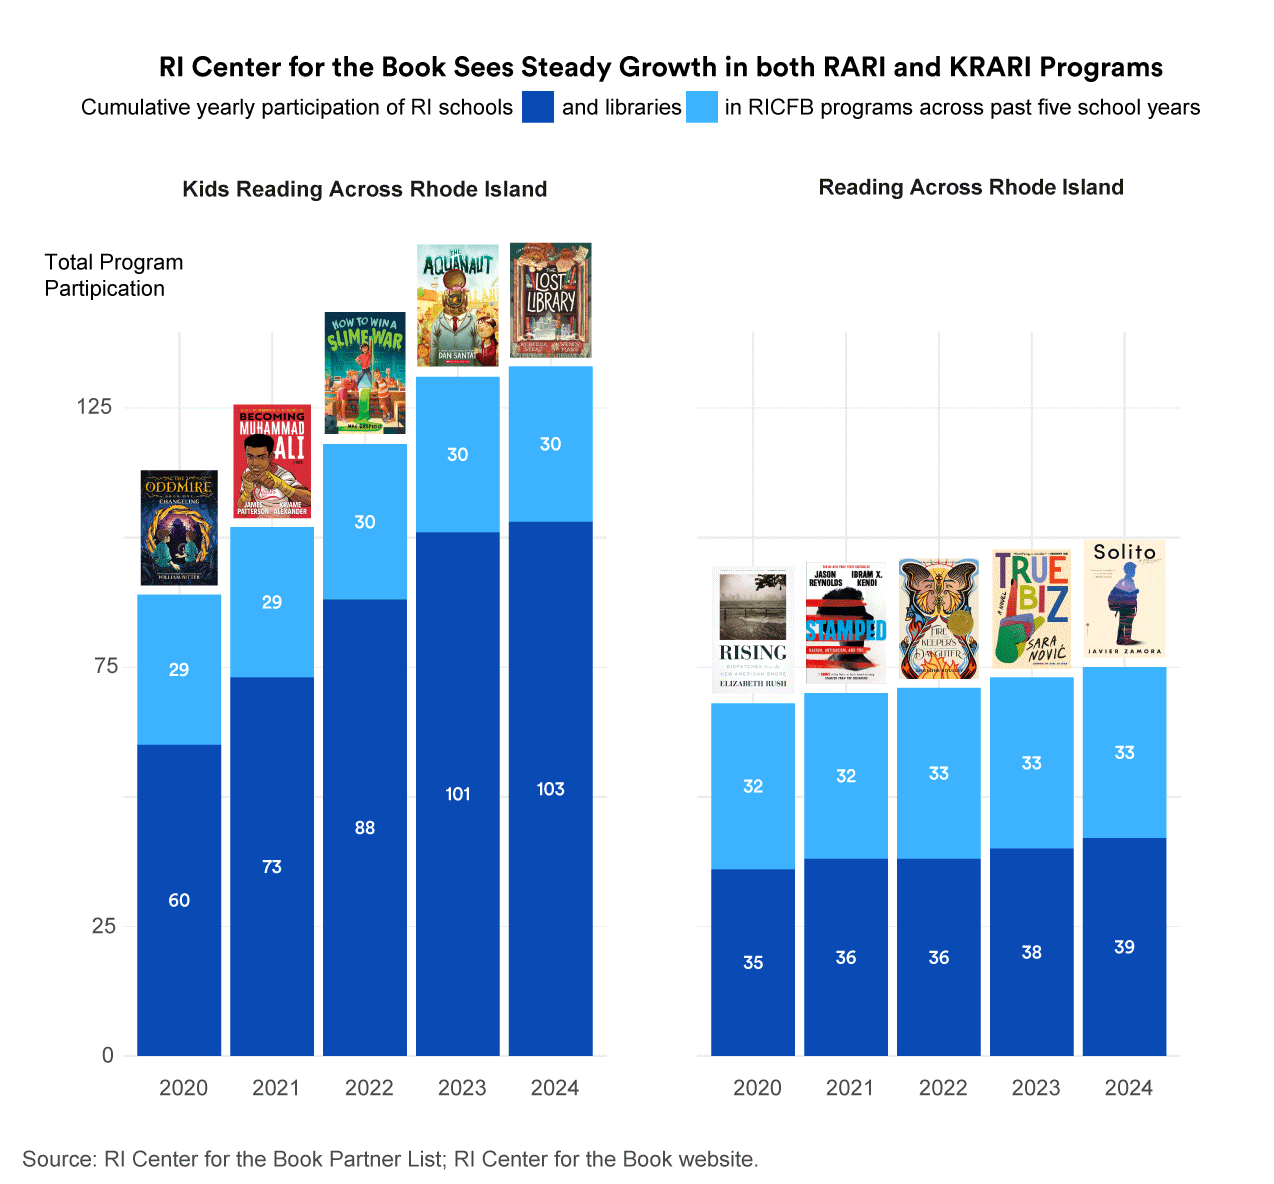
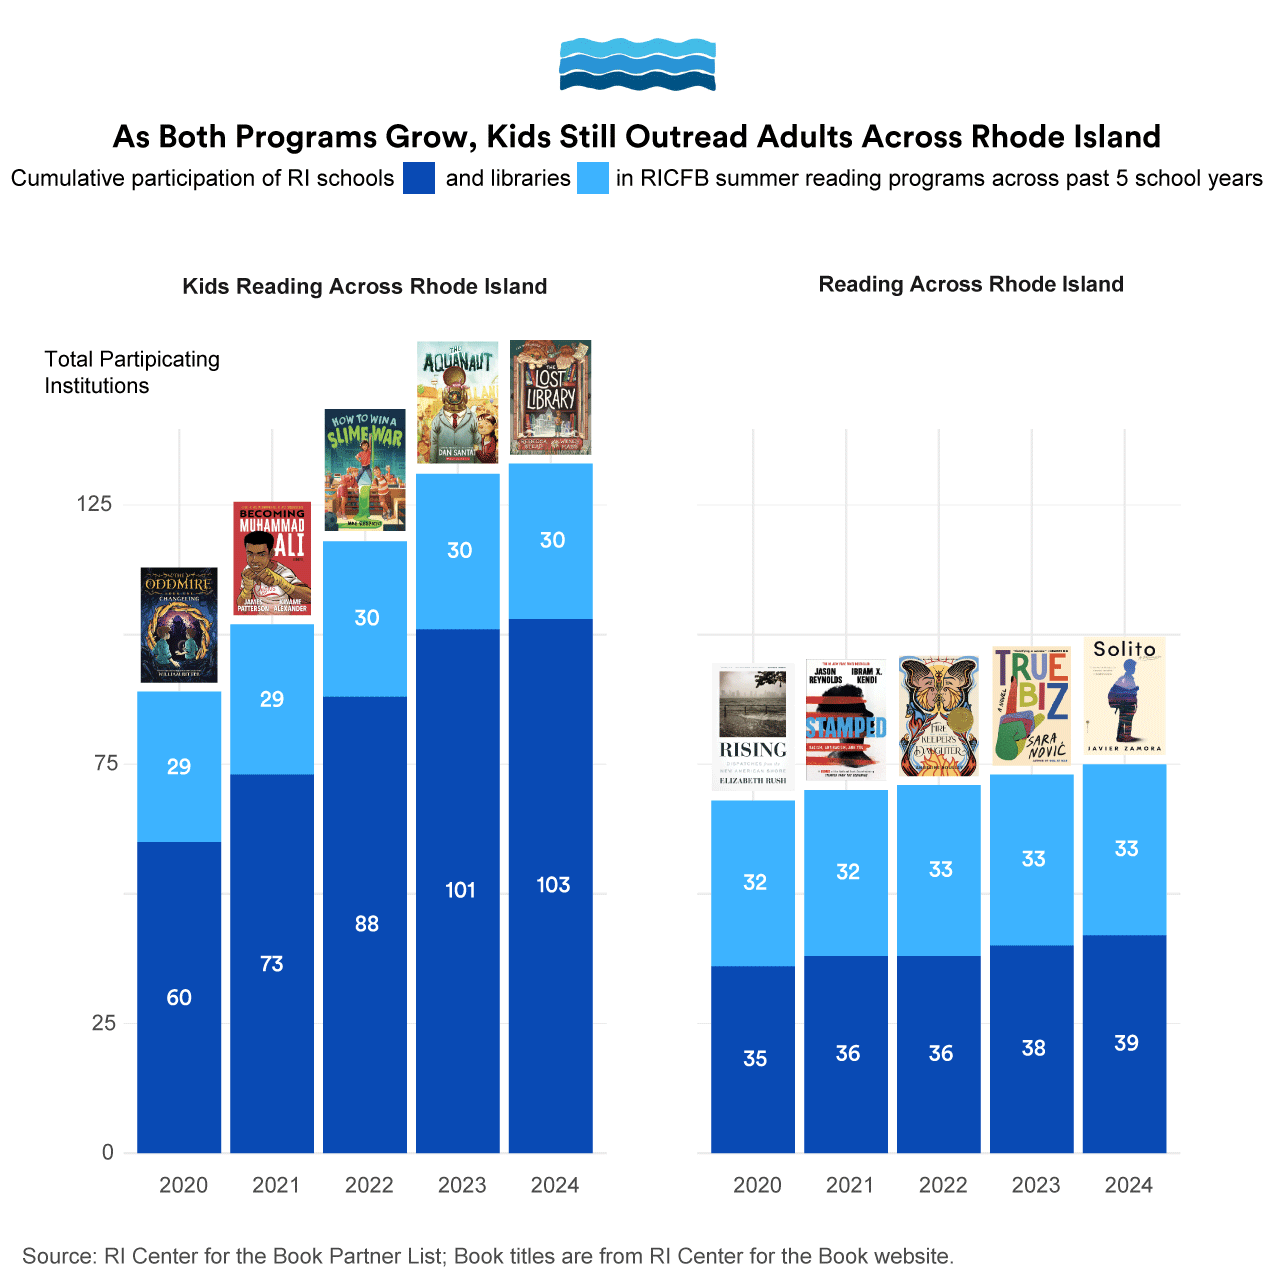
photos, new bar chart update

diff --git a/ri-centerforbook/index.html b/ri-centerforbook/index.html
@@ -22,9 +22,12 @@
     <p class="byline"> by Laura Romig </p>
     <img class="divider" src="images/divider.png">
     <p>
-        In 2020, the Rhode Island Center for the Book incoroporated as a nationwide nonprofit.
+        [PUT this under a hook paragraph?] In 2018, the Rhode Island Center for the Book incoroporated as an
+        independent, 501(c)3 nonprofit organization. Since 2011, the Rhode Island
+        Council for the Humanities had hosted and funded the RICFB
         Since then, the Center has expanded across the state, primarily through its two flagship
-        programs, Reading Across Rhode Island and Kids Reading Across Rhode Island. Led by current
+        programs, Reading Across Rhode Island and Kids Reading Across Rhode Island. The chart
+        above the title demonstrates the steady growth across both programs since 2020. Led by current
         director Kate Lentz, the Center's mission is to expand literacy across the state. RICFB
         is the Rhode Island branch of the National Center for the Book, which is housed under the
         Library of Congress.
@@ -36,14 +39,26 @@
         The RI Center for the Book is a nonprofit aiming to increase literacy across Rhode Island.
         The RI Center for the Book is a nonprofit aiming to increase literacy across Rhode Island.
     </p>
+    <img class=tall src="images/students.png">
+    <p>
+        The Center's Reading Across Rhode Island and Kids Reading Across Rhode Island
+        programs, while diverging in book selections, share the mission to build a
+        network of readers across the state with a shared base of literary knowledge.
+        For KRARI in particular, the Center also hopes to help prevent summer learning
+        losses among its large population of partnered elementary and middle schools. In
+        addition to selecting the statewide book choice, the Center also works to provide
+        thousands of copies of the selected book to schools and other partnered institutions
+        for free, removing financial barriers which might otherwise stop individuals
+        or entire schools and libraries from participating.
+    </p>
+    <img class="photobar" src="images/photobar.png">
+    <p>
+        Additional text here. Photos from the website.
+    </p>
     <img src="images/bar.png">
     <p>
-        Since 2020, RICFB has expanded across the state.
-        Since 2020, RICFB has expanded across the state.
-        Since 2020, RICFB has expanded across the state.
-        Since 2020, RICFB has expanded across the state.
+        Paragraph concluding about work conducted here.
     </p>
-    <img class=tall src="images/students.png">
     <img class="divider" src="images/divider.png">
     <h2> About this project </h2>
     <p> I completed this project in partnership with the Brown University Swearer

diff --git a/ri-centerforbook/styles.css b/ri-centerforbook/styles.css
@@ -7,6 +7,7 @@ img {
     margin-right: auto;
     padding: 8px 0px;
     max-width: 700px;
+    line-height: 1.3;
 }
 
 img {
@@ -59,4 +60,9 @@ h2 {
 .byline {
     color: #0868ac;
     text-align: right;
+    margin-bottom: 0;
+}
+
+.photobar {
+    max-width: 800px;
 }
